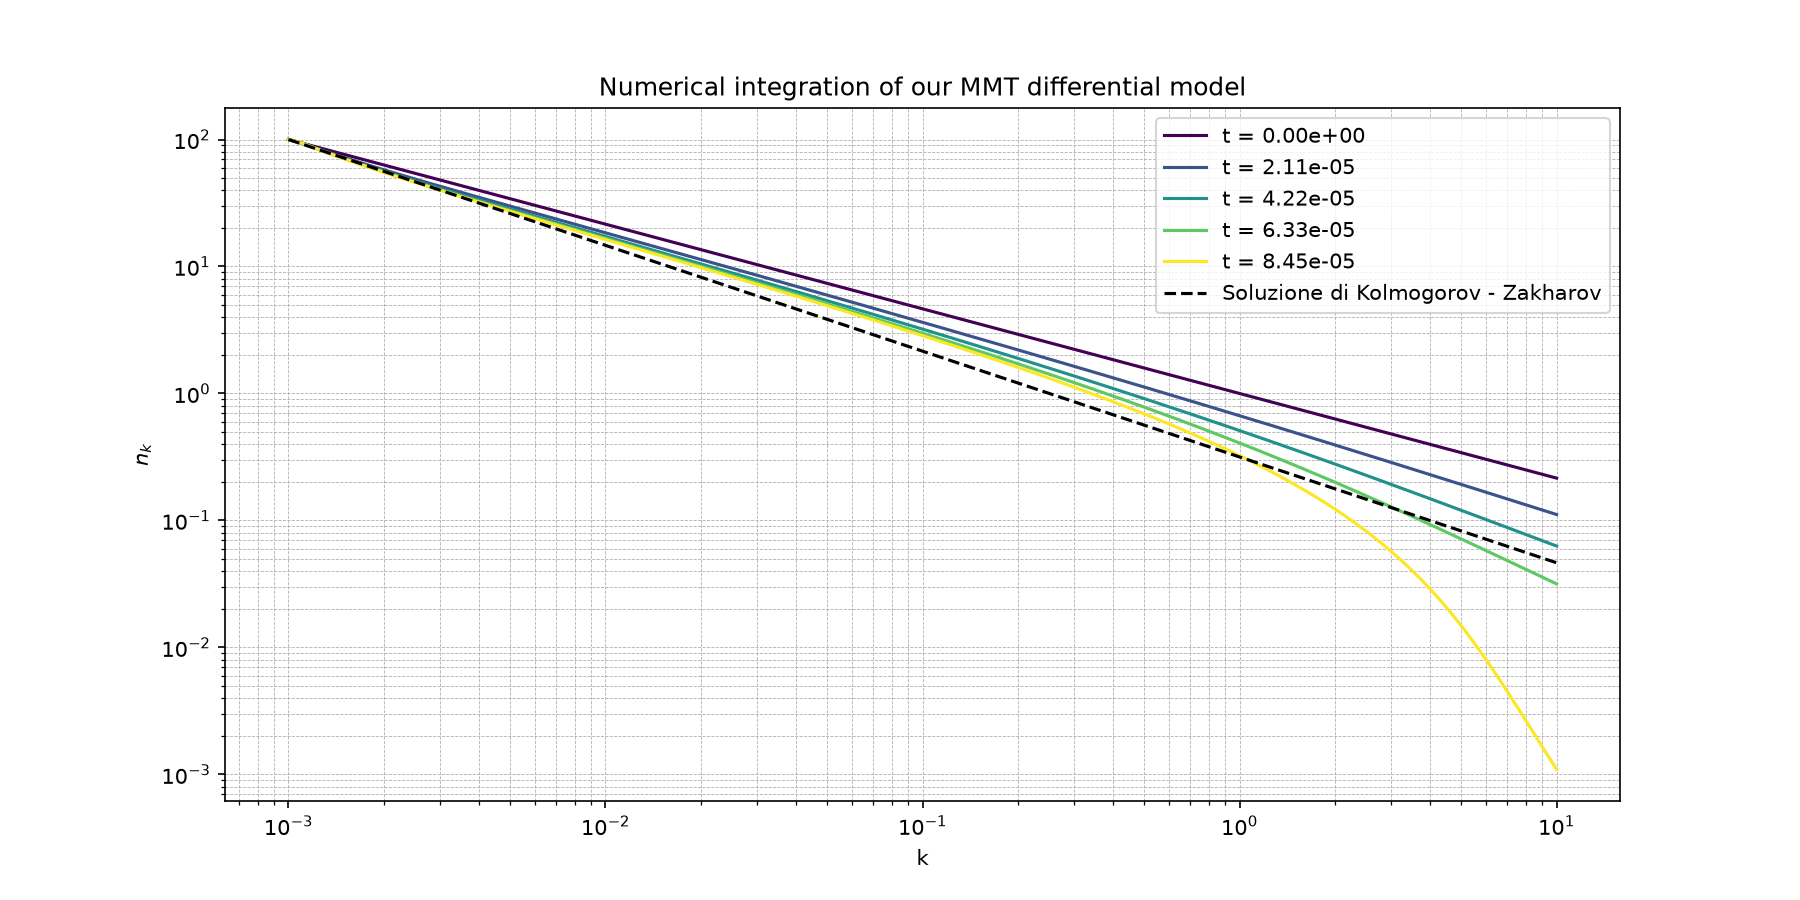
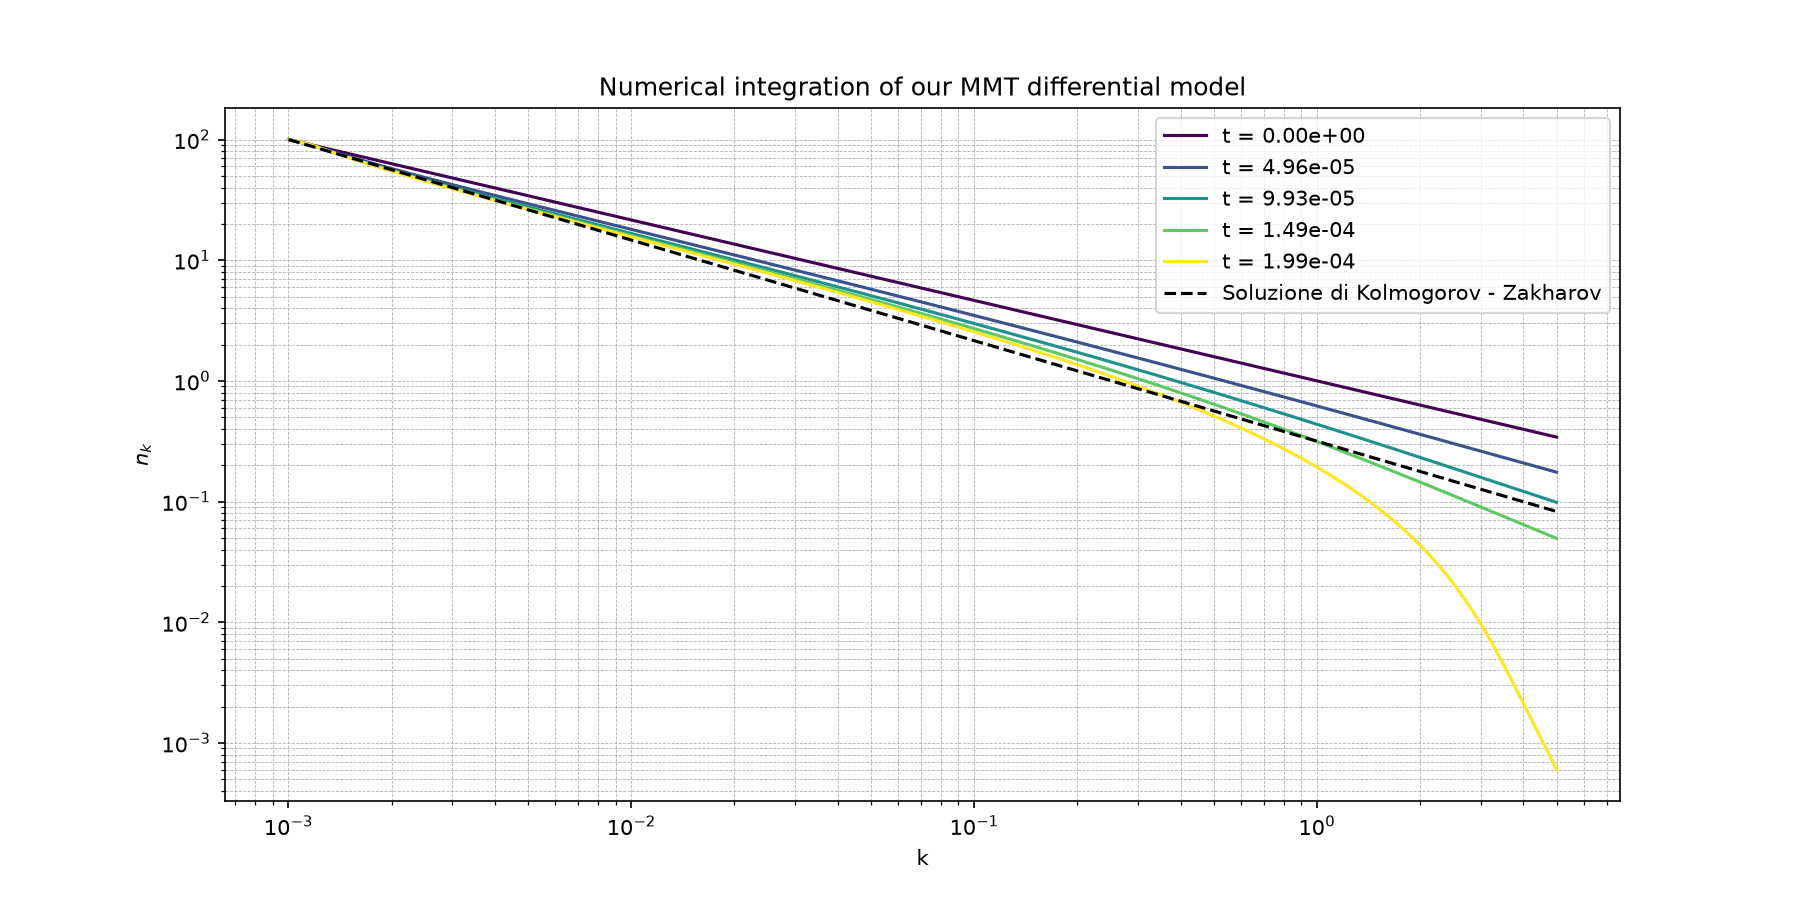
Refactor main script: update k_space parameters for optimized performance; update output images for Gaussian results

Changed region(s): [[0.0933, 0.1556, 0.9022, 0.9333], [0.6844, 0.28, 0.7467, 0.3111]]

diff --git a/main_DAM.py b/main_DAM.py
@@ -5,7 +5,7 @@ from scipy.integrate import solve_ivp
 eta1 = 216
 eta2 = 162
 
-k, dlnk = k_space(1e-3, 5, 500)
+k, dlnk = k_space(1e-3, 5, 300)
 k0 = k[25] 
 
 n_k = initial_condition(1.0, k, -2/3)
